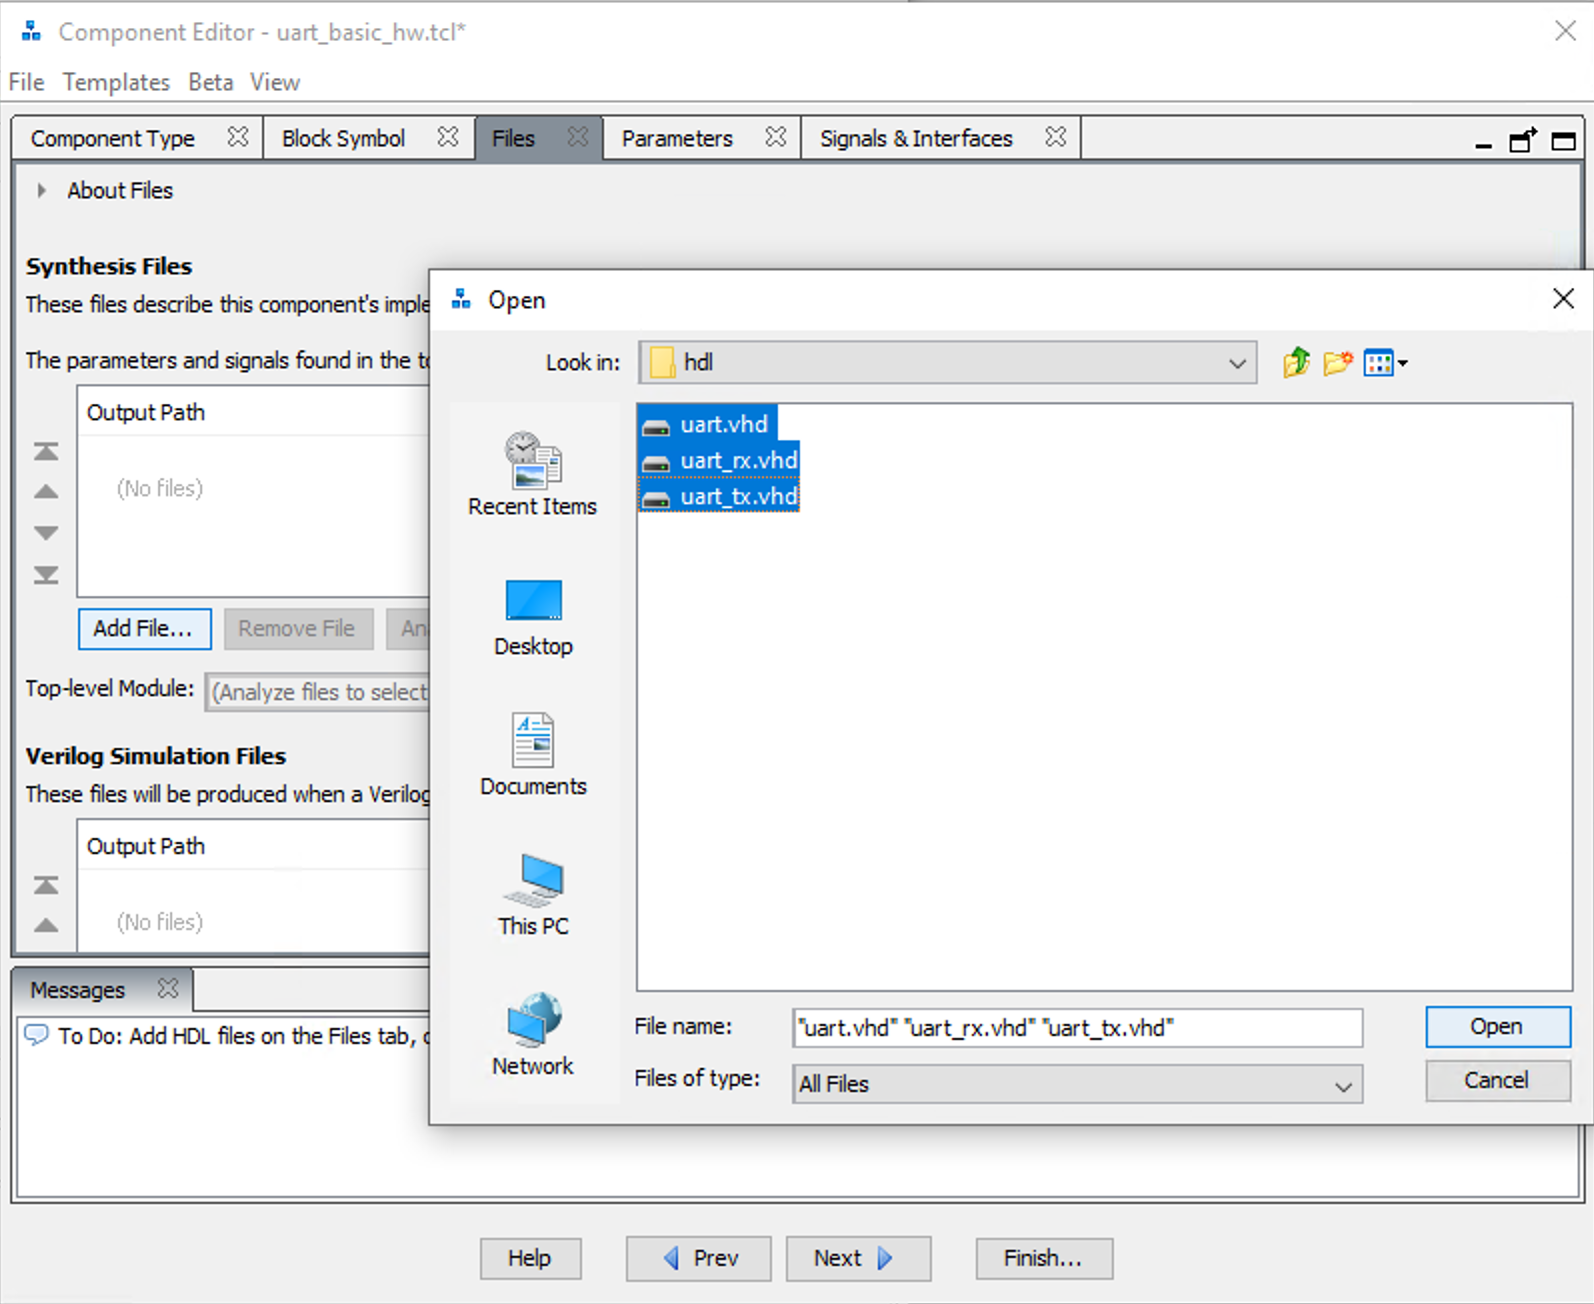
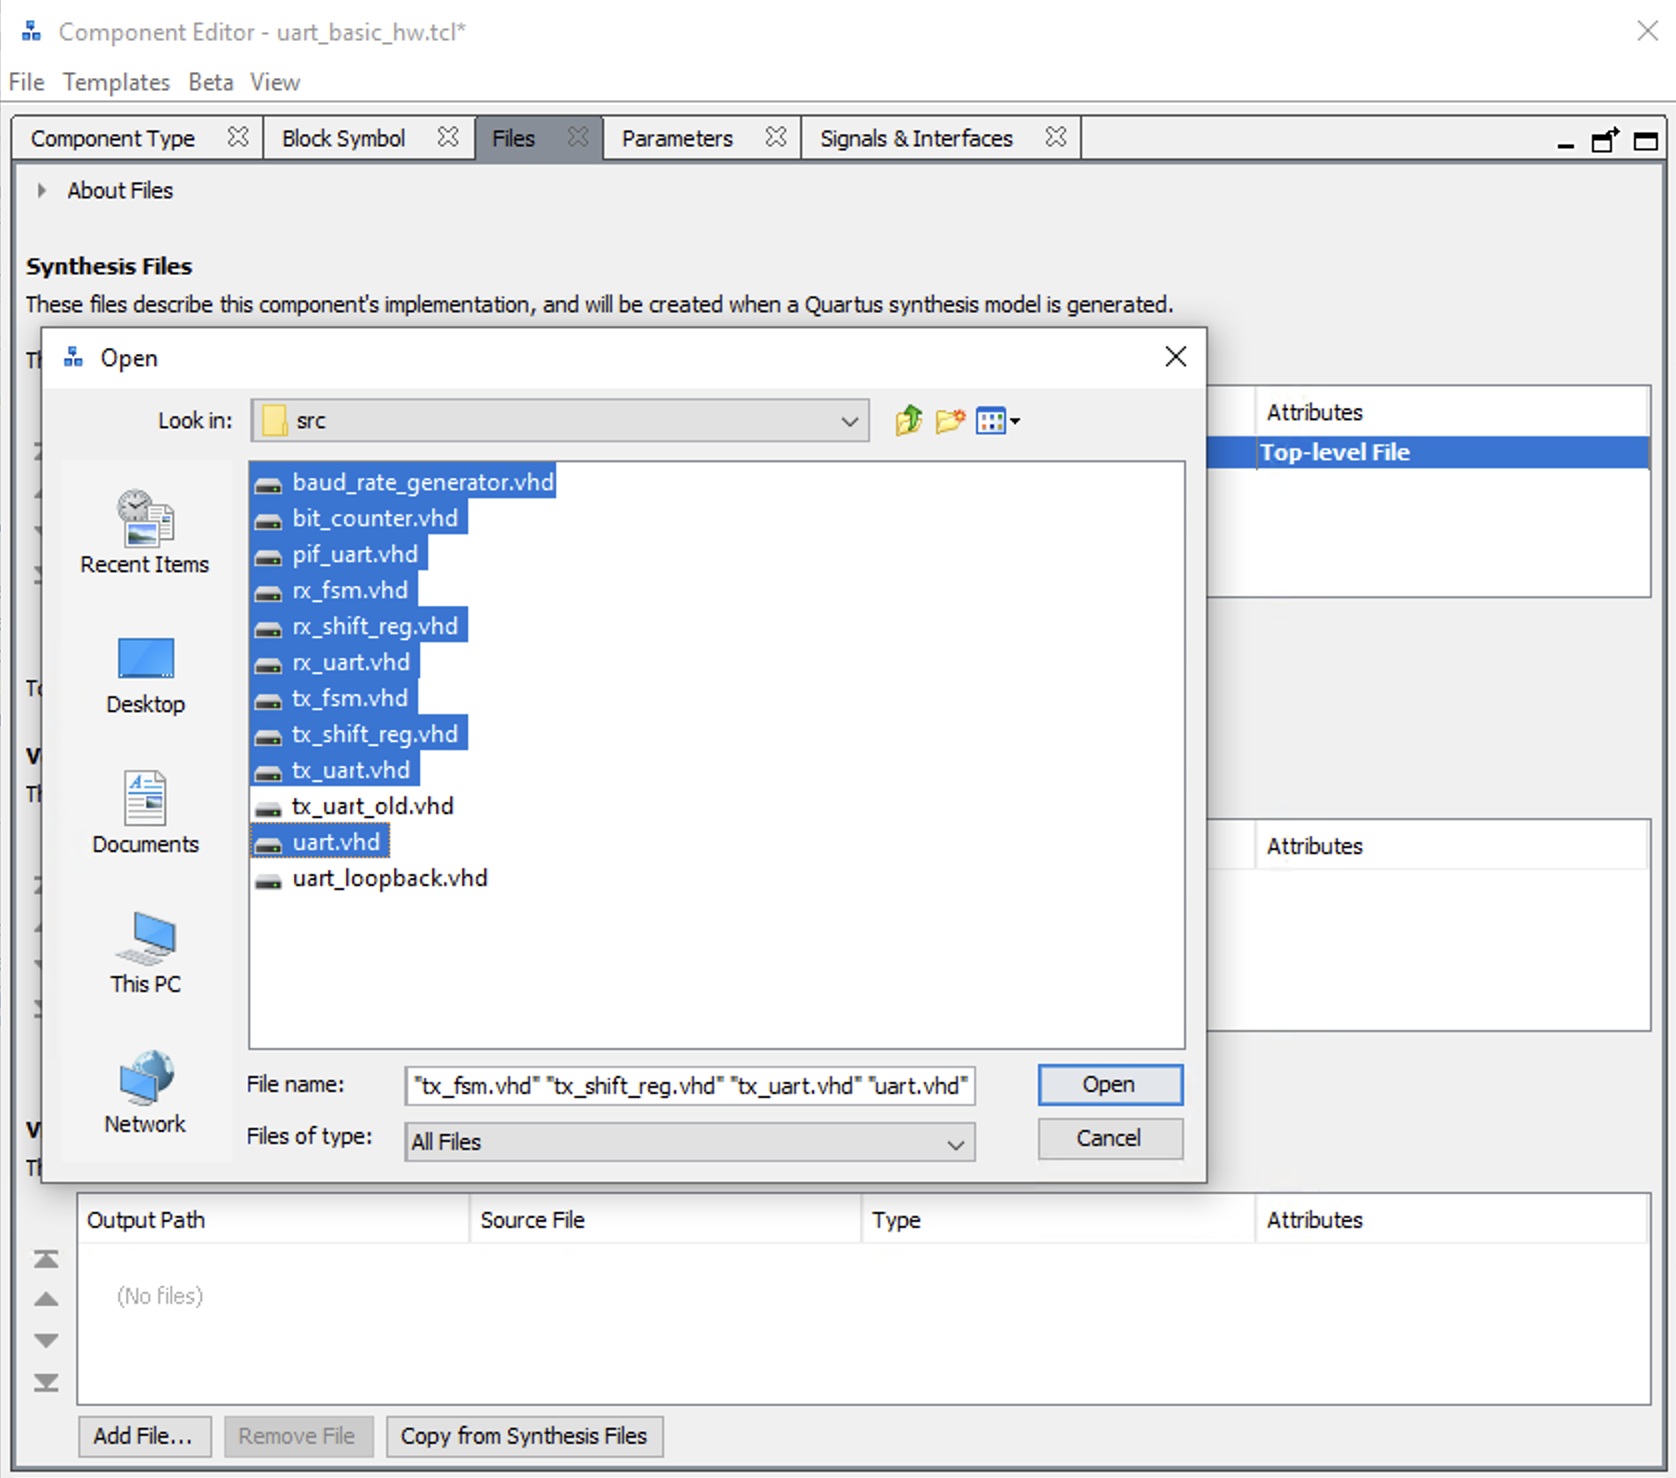
updated

diff --git a/fys4220-jbook/part-project/project_nios2.md b/fys4220-jbook/part-project/project_nios2.md
@@ -98,8 +98,8 @@ name: fig:project-component-info
 Component editor. Specify component information.
 ```
 
-Change to the *Files* tab and and click the *Add File...* button under the first section *Synthesis Files*. Navigate to the *hdl* directory and add your UART source files as shown in 
-{numref}`fig:project-component-files`.
+Change to the *Files* tab and and click the *Add File...* button under the first section *Synthesis Files*. Navigate to the *hdl* directory and add your all your UART source files as shown in 
+{numref}`fig:project-component-files`. 
 
 ```{figure} ../images/project_component_files.png
 ---
@@ -107,8 +107,25 @@ width: 70%
 align: center
 name: fig:project-component-files
 ---
-Add the UART source files.
+Add the UART source files. 
 ```
+
+```{admonition} Note
+:class: warning
+Note that you may have different files and filenames than shown in the figure. Make sure to add all of YOUR UART design files.
+```
+
+Make sure to set the correct top level file. For the example here this is *uart.vhd* as shown in {numref}`fig:project-component-files-top-level`.
+
+```{figure} ../images/project_component_files_top_level.png
+---
+width: 70%
+align: center
+name: fig:project-component-files-top-level
+---
+Click on the no Attributes column for the *uart.vhd* file and choose *Top-Level File*.
+```
+
 
 Then click the *Analyse Synthesis files* button to analyse the source files as shown in {numref}`fig:project-component-files-analyze`. This process will identify the top-level file as well as making an attempt to identify and assign the appropriate interfaces.
 
@@ -619,10 +636,10 @@ typedef unsigned long long alt_u64;
 To declare a 8-bit unsigned variable you can therefore also use:
 
 ```c
-alt_u32 data;
+alt_u8 data;
 ```
 
-Defining a variable as int also corresponds to signed 32-bit.
+Defining a variable as int, corresponds to signed 32-bit.
 
 ````
 
@@ -658,17 +675,19 @@ alt_u8 spi_tx_data[6];
 int no_bytes;
 
 // ADXL345 command byte configuration
-// bit 7: RnW
-// bit 6: For multi byte read or write
+// bit 7: RnW (0: Write, 1: Read)
+// bit 6: For multi byte read or write from the accelerometer
 // bit 5-0: register address
 
 // Configure SPI bit in DATA_FORMAT register
+// bit 7: 0 (Write) 
+// bit 6: Single 
 spi_tx[0] = 0x00 | 0x31; // Single byte write (cmd byte + 1 data byte) + register address
 spi_tx[1] = 0x0; // register data to write
 no_bytes = alt_avalon_spi_command(SPI_BASE,0,2,spi_tx,0,spi_rx,0);
 
 // To read device ID register send 0x80
-spi_tx_data[0] = 0x8 | 0x0; //Single byte read + address
+spi_tx_data[0] = 0x80 | 0x0; //Single byte read + address
 no_bytes = alt_avalon_spi_command(SPI_BASE, 0, 1, spi_tx_data, 1, spi_rx_data, 0);
 ```
 
